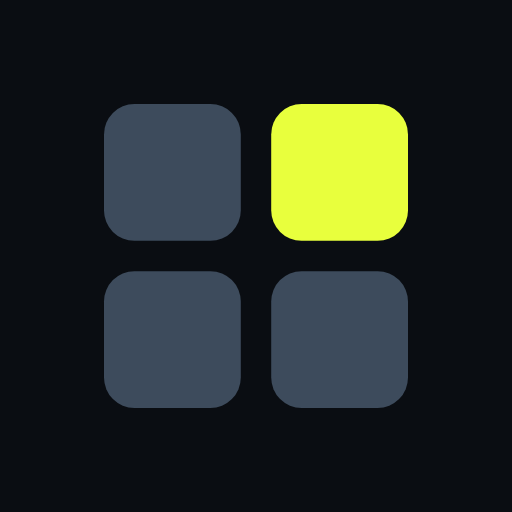
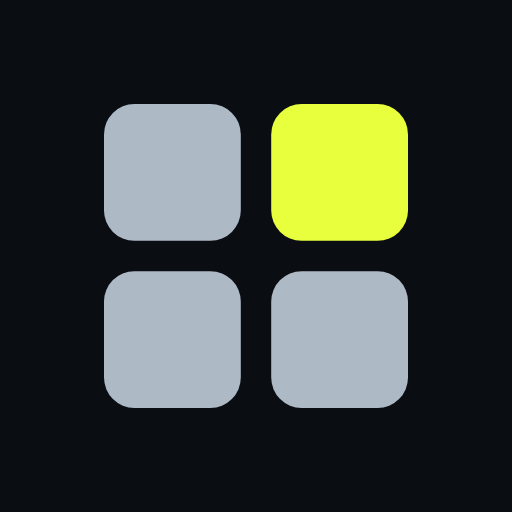
CAISO binding constraints, day-ahead and real-time
Two streams from OASIS's nomogram reports, keyed like PJM's on
constraint, contingency and interval, reconciled live on 2026-09-14:
caiso-dam-shadow-prices (PRC_NOMOGRAM, DAM, hourly, planned by market
day) and caiso-rt-shadow-prices (PRC_RTM_NOMOGRAM, five-minute).

A row exists only while a constraint binds, so OASIS's "no data" is a
quiet grid rather than "not posted": the real-time stream reads the last
24 hours up to now on every run instead of stopping at the first empty
window, which would strand it behind any unconstrained stretch. Names
are OASIS's, verbatim, and say the kind — branches and transformers were
never negative on the day, nomograms almost always were — so the sign is
stored as published and the docs say not to sum across kinds. The
fifteen-minute market publishes no constraint report; the hour-ahead run
and the intertie scheduling constraints (PRC_CNSTR) are not collected
yet.

Also landed from a parallel session in the same tree: the API's icon is
the site's four tiles muted, with no ground, following the tab strip's
theme, and the favicon set and its note in the root layout are redrawn
to match.

Changed region(s): [[0.5312, 0.5312, 0.8125, 0.8125], [0.1875, 0.5312, 0.4688, 0.8125], [0.1875, 0.1875, 0.4688, 0.4688]]

diff --git a/src/lib/workspace/catalog.ts b/src/lib/workspace/catalog.ts
@@ -2313,6 +2313,79 @@ export const SCHEMAS: Schema[] = [
       },
     ],
   },
+  // CAISO's binding constraints (`caiso_constraints.py`): rows only while a
+  // constraint binds, so the set of names is whatever the grid did.
+  {
+    id: "energy.caiso.constraintsdam",
+    path: ["Energy", "Pricing", "Shadow prices"],
+    name: "CAISO day-ahead binding constraints",
+    short: "Constraints · DA",
+    dataset: "caiso-dam-shadow-prices",
+    availability: "live",
+    cadence: { label: "daily, early afternoon PT", seconds: 86_400 },
+    intervalSeconds: 3_600,
+    tokens: 0.5,
+    entities: {
+      count: 32,
+      label: "constraints",
+      sample: [
+        "31336_HPLND JT_60.0_31370_CLVRDLJT_60.0_BR_1 _1",
+        "24701_KRAMER  _230_24601_VICTOR  _230_BR_2 _1",
+        "7820_TL 230S_OVERLOAD_NG",
+      ],
+    },
+    entityColumn: "constraint_name",
+    blurb:
+      "Every transmission constraint CAISO's day-ahead market bound on, hour by hour, " +
+      "with the contingency it bound for and its shadow price, posted for the whole of " +
+      "tomorrow each afternoon. The set of constraints is whatever the grid did that day.",
+    maintainer: { name: "Dryos", since: Date.UTC(2026, 8, 14) },
+    variables: [
+      {
+        key: "shadow_price",
+        label: "Shadow price",
+        unit: "$/MWh",
+        availability: "live",
+        description: "The constraint's shadow price for the hour, in CAISO's sign.",
+        mock: { base: 40, swing: 80, noise: 20 },
+      },
+    ],
+  },
+  {
+    id: "energy.caiso.constraintsrt",
+    path: ["Energy", "Pricing", "Shadow prices"],
+    name: "CAISO real-time binding constraints",
+    short: "Constraints · RT",
+    dataset: "caiso-rt-shadow-prices",
+    availability: "live",
+    cadence: { label: "every 5 min, when bound", seconds: 300 },
+    tokens: 0.5,
+    entities: {
+      count: 28,
+      label: "constraints",
+      sample: [
+        "31336_HPLND JT_60.0_31370_CLVRDLJT_60.0_BR_1 _1",
+        "24114_PARDEE  _230_24115_PASTORIA_230_BR_1 _1",
+        "7820_TL 230S_OVERLOAD_NG",
+      ],
+    },
+    entityColumn: "constraint_name",
+    blurb:
+      "Every transmission constraint CAISO's real-time dispatch was up against, five " +
+      "minutes at a time, with the contingency it bound for and its shadow price. Empty " +
+      "when nothing binds, which is a fact and not a gap.",
+    maintainer: { name: "Dryos", since: Date.UTC(2026, 8, 14) },
+    variables: [
+      {
+        key: "shadow_price",
+        label: "Shadow price",
+        unit: "$/MWh",
+        availability: "live",
+        description: "The constraint's shadow price for the interval, in CAISO's sign.",
+        mock: { base: 40, swing: 120, noise: 30 },
+      },
+    ],
+  },
   // CAISO's ancillary clearing prices (`caiso_ancillary.py`): a row per
   // region, a column per product, so a region charts as one line per product.
   {

diff --git a/src/app/layout.tsx b/src/app/layout.tsx
@@ -71,16 +71,14 @@ export const metadata: Metadata = {
     a build hash in its URL and half not.
 
     The SVG is first because that is what a modern browser should take: it is
-    the only one that stays sharp at any size, and the only one that can
-    follow the theme. The mark is four tiles, one lit — a screen with a tile
-    just updated — on no ground, so it switches palette inside the file
-    (`prefers-color-scheme`: chartreuse on dark, the light theme's olive on
-    light), since chartreuse on a white tab strip is invisible. Safari ignores
-    SVG favicons, so the ICO and the 96px PNG are one palette that reads on
-    both; the touch and manifest icons keep the ink ground because iOS fills
-    transparency with black and a maskable icon must be full bleed. The API
-    serves the tiles on a chartreuse ground (`status_page.ICON`). Redraw the
-    set together.
+    the only one that stays sharp at any size. The mark is four tiles, one
+    lit — a screen with a tile just updated — grey (`#aeb9c6`, the API
+    icon's light-theme grey) and chartreuse on no ground, in every theme. The ICO and the 96px PNG (Safari ignores SVG
+    favicons) are the same; the touch and manifest icons put it on the ink
+    ground because iOS fills transparency with black and a maskable icon must
+    be full bleed. The API serves the same tiles muted (`status_page.ICON`):
+    the solid tiles are the site, the quiet ones the API. Redraw the set
+    together.
   */
   icons: {
     icon: [
